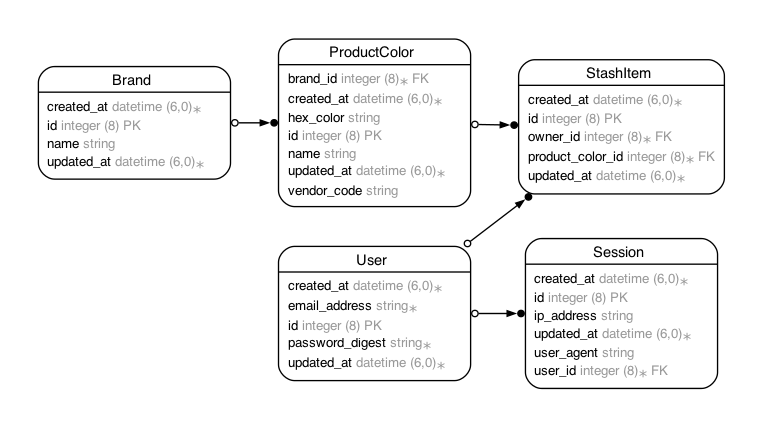
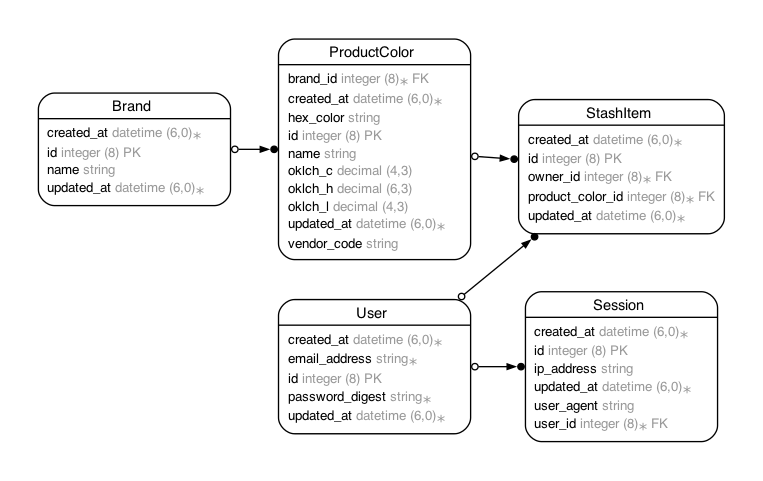
add OKLCH columns to ProductColors

Changed region(s): [[0.3014, 0.0607, 0.9646, 0.9112], [0.6029, 0.5467, 0.9646, 0.9416], [0.0301, 0.1519, 0.3014, 0.4556]]

diff --git a/db/cable_schema.rb b/db/cable_schema.rb
@@ -10,7 +10,7 @@
 #
 # It's strongly recommended that you check this file into your version control system.
 
-ActiveRecord::Schema[8.0].define(version: 2025_11_18_031100) do
+ActiveRecord::Schema[8.0].define(version: 2025_11_18_185444) do
   # These are extensions that must be enabled in order to support this database
   enable_extension "pg_catalog.plpgsql"
 
@@ -27,7 +27,13 @@ ActiveRecord::Schema[8.0].define(version: 2025_11_18_031100) do
     t.string "hex_color"
     t.datetime "created_at", null: false
     t.datetime "updated_at", null: false
+    t.decimal "oklch_l", precision: 4, scale: 3
+    t.decimal "oklch_c", precision: 4, scale: 3
+    t.decimal "oklch_h", precision: 6, scale: 3
     t.index ["brand_id"], name: "index_product_colors_on_brand_id"
+    t.index ["oklch_c"], name: "index_product_colors_on_oklch_c"
+    t.index ["oklch_h"], name: "index_product_colors_on_oklch_h"
+    t.index ["oklch_l"], name: "index_product_colors_on_oklch_l"
   end
 
   create_table "sessions", force: :cascade do |t|

diff --git a/db/cache_schema.rb b/db/cache_schema.rb
@@ -10,7 +10,7 @@
 #
 # It's strongly recommended that you check this file into your version control system.
 
-ActiveRecord::Schema[8.0].define(version: 2025_11_18_031100) do
+ActiveRecord::Schema[8.0].define(version: 2025_11_18_185444) do
   # These are extensions that must be enabled in order to support this database
   enable_extension "pg_catalog.plpgsql"
 
@@ -27,7 +27,13 @@ ActiveRecord::Schema[8.0].define(version: 2025_11_18_031100) do
     t.string "hex_color"
     t.datetime "created_at", null: false
     t.datetime "updated_at", null: false
+    t.decimal "oklch_l", precision: 4, scale: 3
+    t.decimal "oklch_c", precision: 4, scale: 3
+    t.decimal "oklch_h", precision: 6, scale: 3
     t.index ["brand_id"], name: "index_product_colors_on_brand_id"
+    t.index ["oklch_c"], name: "index_product_colors_on_oklch_c"
+    t.index ["oklch_h"], name: "index_product_colors_on_oklch_h"
+    t.index ["oklch_l"], name: "index_product_colors_on_oklch_l"
   end
 
   create_table "sessions", force: :cascade do |t|

diff --git a/db/queue_schema.rb b/db/queue_schema.rb
@@ -10,7 +10,7 @@
 #
 # It's strongly recommended that you check this file into your version control system.
 
-ActiveRecord::Schema[8.0].define(version: 2025_11_18_031100) do
+ActiveRecord::Schema[8.0].define(version: 2025_11_18_185444) do
   # These are extensions that must be enabled in order to support this database
   enable_extension "pg_catalog.plpgsql"
 
@@ -27,7 +27,13 @@ ActiveRecord::Schema[8.0].define(version: 2025_11_18_031100) do
     t.string "hex_color"
     t.datetime "created_at", null: false
     t.datetime "updated_at", null: false
+    t.decimal "oklch_l", precision: 4, scale: 3
+    t.decimal "oklch_c", precision: 4, scale: 3
+    t.decimal "oklch_h", precision: 6, scale: 3
     t.index ["brand_id"], name: "index_product_colors_on_brand_id"
+    t.index ["oklch_c"], name: "index_product_colors_on_oklch_c"
+    t.index ["oklch_h"], name: "index_product_colors_on_oklch_h"
+    t.index ["oklch_l"], name: "index_product_colors_on_oklch_l"
   end
 
   create_table "sessions", force: :cascade do |t|

diff --git a/db/schema.rb b/db/schema.rb
@@ -10,7 +10,7 @@
 #
 # It's strongly recommended that you check this file into your version control system.
 
-ActiveRecord::Schema[8.0].define(version: 2025_11_18_031100) do
+ActiveRecord::Schema[8.0].define(version: 2025_11_18_185444) do
   # These are extensions that must be enabled in order to support this database
   enable_extension "pg_catalog.plpgsql"
 
@@ -27,7 +27,13 @@ ActiveRecord::Schema[8.0].define(version: 2025_11_18_031100) do
     t.string "hex_color"
     t.datetime "created_at", null: false
     t.datetime "updated_at", null: false
+    t.decimal "oklch_l", precision: 4, scale: 3
+    t.decimal "oklch_c", precision: 4, scale: 3
+    t.decimal "oklch_h", precision: 6, scale: 3
     t.index ["brand_id"], name: "index_product_colors_on_brand_id"
+    t.index ["oklch_c"], name: "index_product_colors_on_oklch_c"
+    t.index ["oklch_h"], name: "index_product_colors_on_oklch_h"
+    t.index ["oklch_l"], name: "index_product_colors_on_oklch_l"
   end
 
   create_table "sessions", force: :cascade do |t|

diff --git a/app/models/product_color.rb b/app/models/product_color.rb
@@ -5,6 +5,9 @@
 #  id          :bigint           not null, primary key
 #  hex_color   :string
 #  name        :string
+#  oklch_c     :decimal(4, 3)
+#  oklch_h     :decimal(6, 3)
+#  oklch_l     :decimal(4, 3)
 #  vendor_code :string
 #  created_at  :datetime         not null
 #  updated_at  :datetime         not null
@@ -13,6 +16,9 @@
 # Indexes
 #
 #  index_product_colors_on_brand_id  (brand_id)
+#  index_product_colors_on_oklch_c   (oklch_c)
+#  index_product_colors_on_oklch_h   (oklch_h)
+#  index_product_colors_on_oklch_l   (oklch_l)
 #
 # Foreign Keys
 #

diff --git a/db/migrate/20251118185444_add_oklch_columns_to_product_colors.rb b/db/migrate/20251118185444_add_oklch_columns_to_product_colors.rb
@@ -1,0 +1,11 @@
+class AddOklchColumnsToProductColors < ActiveRecord::Migration[8.0]
+  def change
+    add_column :product_colors, :oklch_l, :decimal, precision: 4, scale: 3
+    add_column :product_colors, :oklch_c, :decimal, precision: 4, scale: 3
+    add_column :product_colors, :oklch_h, :decimal, precision: 6, scale: 3
+
+    add_index :product_colors, :oklch_l
+    add_index :product_colors, :oklch_c
+    add_index :product_colors, :oklch_h
+  end
+end
